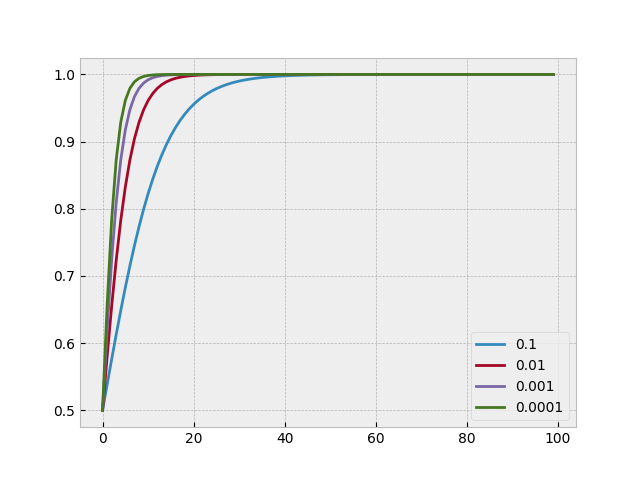
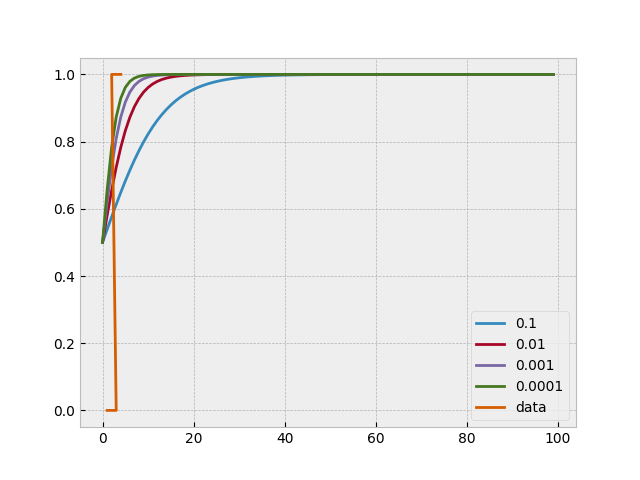
add data to images

diff --git a/analysis/assignment_109.py b/analysis/assignment_109.py
@@ -38,7 +38,9 @@ for o in offsets:
     y_vals = [lr.predict({"x": i}) for i in x_vals]
     plt.plot(x_vals, y_vals)
 
-plt.legend(offsets)
+plt.plot(df.get_column('x'), df.get_column('y'))
+
+plt.legend(offsets+["data"])
 plt.savefig("assignment_109a.png")
 
 #> Part B
@@ -54,7 +56,7 @@ df = DataFrame.from_array(
 columns = ['x', 'y'])
 df = df.apply_new("x", "constant", lambda _: 1)
 
-reg = LogisticRegressor(df, dependent_variable='y')
+reg = LogisticRegressor(df, dependent_variable='y', solve_immediately=False)
 
 reg.set_coefficients({'constant': 0.5, 'x': 0.5})
 
@@ -70,6 +72,8 @@ reg.set_coefficients({'constant': 2.7911, 'x': -1.1165})
 x_vals = [i for i in range(100)]
 y_vals = [reg.predict({"x": i, "constant": 1}) for i in x_vals]
 plt.plot(x_vals, y_vals)
+
+plt.plot(df.get_column('x'), df.get_column('y'))
 
 plt.legend(["Gradient Descent"])
 plt.title("Gradient Descent Plot")

diff --git a/src/models/logistic_regressor.py b/src/models/logistic_regressor.py
@@ -6,9 +6,10 @@ plt.style.use("bmh")
 
 
 class LogisticRegressor(LinearRegressor):
-    def __init__(self, df, dependent_variable, max_value=1):
+    def __init__(self, df, dependent_variable, max_value=1, solve_immediately=True):
         self.max_value = max_value
-        df = df.apply(dependent_variable, self.transform)
+        if solve_immediately:
+            df = df.apply(dependent_variable, self.transform)
         super().__init__(df, dependent_variable)
 
     def transform(self, x):
